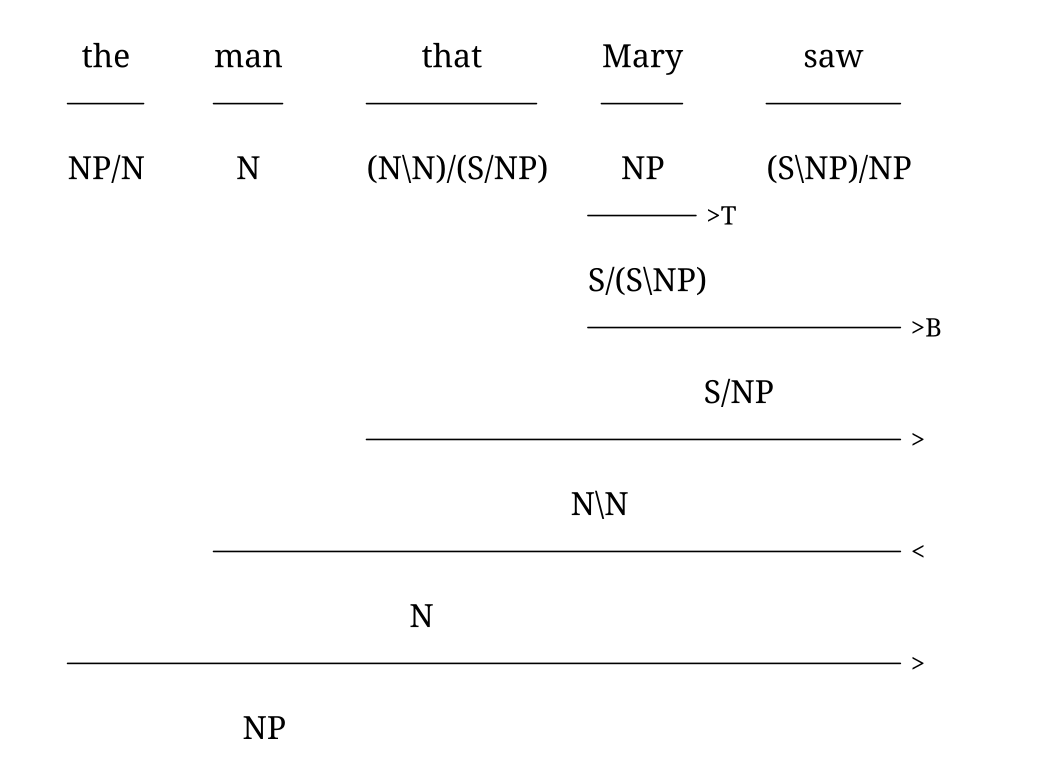
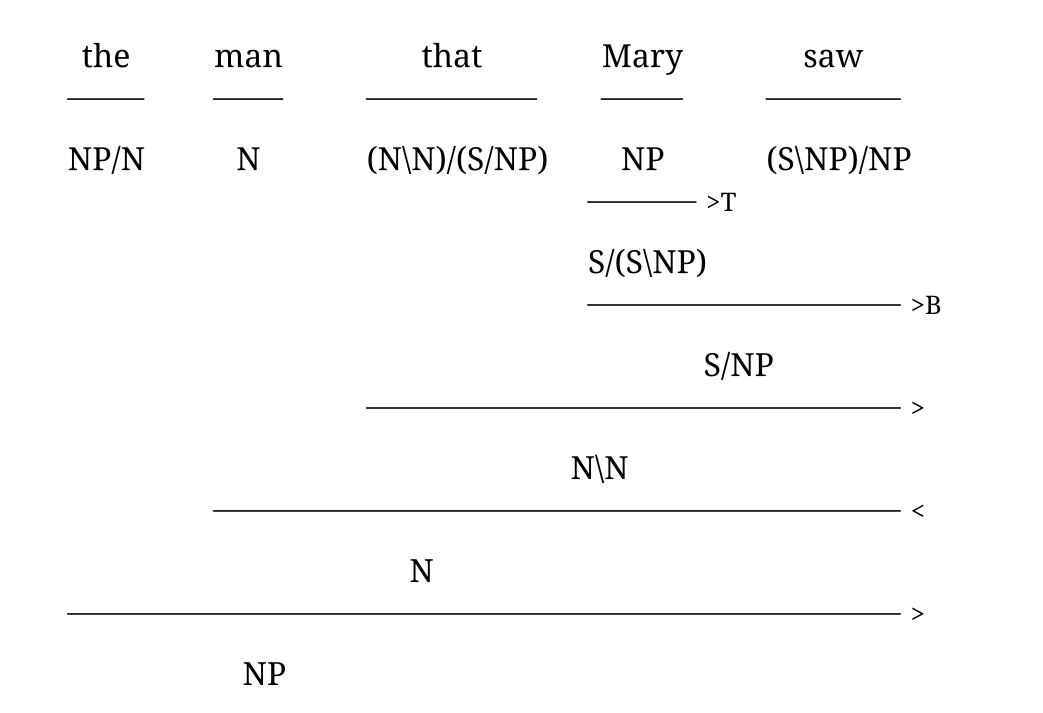
Set the derivations at a spacing the interface can offer
The three categorial figures were at a V spacing of 0.7, which is a value
the web interface does not have: its list goes 0.5, 1.0, 1.2 and up. A
reader who wanted to arrive at one of those figures from the interface could
not, and the gallery is meant to be reproducible there. They are at 0.5 now,
nine pixels tighter between rows and no worse for it.

Checked the rest of the gallery the same way, every option against the
choices the interface offers: nothing else is out of reach. The 0.7 was mine
and this week's.

diff --git a/lib/rsyntaxtree/notation_examples.md b/lib/rsyntaxtree/notation_examples.md
@@ -279,7 +279,7 @@ Source: Radford 2004
 ## 011 — CCG derivation: forward and backward application
 
 Category: Combinatory Categorial Grammar
-Settings: color=none derivation=on direction=btt fontstyle=noto-serif hspacing=2.0 leafstyle=nothing tidy=low vheight=0.7
+Settings: color=none derivation=on direction=btt fontstyle=noto-serif hspacing=2.0 leafstyle=nothing tidy=low vheight=0.5
 Source: Steedman 2000
 
 ```
@@ -295,7 +295,7 @@ Source: Steedman 2000
 ## 012 — CCG derivation: a relative clause
 
 Category: Combinatory Categorial Grammar
-Settings: color=none derivation=on direction=btt fontstyle=noto-serif hspacing=2.0 leafstyle=nothing tidy=low vheight=0.7
+Settings: color=none derivation=on direction=btt fontstyle=noto-serif hspacing=2.0 leafstyle=nothing tidy=low vheight=0.5
 Source: Steedman 2000
 
 ```
@@ -2504,7 +2504,7 @@ Settings: fontstyle=noto-serif tidy=low vheight=1.0
 ## 081 — CCG derivation: right node raising
 
 Category: Combinatory Categorial Grammar
-Settings: color=none derivation=on direction=btt fontstyle=noto-serif hspacing=2.0 leafstyle=nothing tidy=low vheight=0.7
+Settings: color=none derivation=on direction=btt fontstyle=noto-serif hspacing=2.0 leafstyle=nothing tidy=low vheight=0.5
 Source: Steedman 2000
 
 ```

diff --git a/docs/documentation_ja.md b/docs/documentation_ja.md
@@ -81,7 +81,7 @@ RSyntaxTreeではPNG形式またはSVG形式で画像を生成します．どち
 ```
 
 `コネクタ形状` を `none` にして語と範疇の間に縦線が入らないようにし，`縦間隔` は小さめに
-してください．導出は詰めて組むものです．
+してください．ギャラリーの導出図は最小の `0.5` です．導出は縦に詰めて組むものです．
 
 横方向は `Tidy レイアウト: low` に `横間隔` を広めで組みます．導出は各桁をそこに立つ最も
 広いものの幅にとった表として組むもので，`low` がまさにそれを行い，桁を寄せつつ語順を

diff --git a/docs/documentation.md b/docs/documentation.md
@@ -87,7 +87,8 @@ the top instead, each constituent's extent marked by a rule:
 ```
 
 Set `Connector shape` to `none` so that no bar is drawn between a word and its
-category, and use a small `V spacing`: a derivation is set tight.
+category, and use a small `V spacing` — the gallery's derivations are set at
+`0.5`, the smallest there is: a derivation is set tight down the page.
 
 Across the page, use `Tidy layout: low` with a wide `H spacing`. A derivation is
 set as a table, each column as wide as the widest thing standing in it, and that

diff --git a/docs/_examples/011.md b/docs/_examples/011.md
@@ -6,7 +6,7 @@ category: "Combinatory Categorial Grammar"
 polyline: "off"
 symmetrization: "off"
 connector: "nothing"
-connector_height: "0.7"
+connector_height: "0.5"
 linewidth: "1"
 hide_default_connectors: "off"
 tidy: "low"

diff --git a/docs/_examples/012.md b/docs/_examples/012.md
@@ -6,7 +6,7 @@ category: "Combinatory Categorial Grammar"
 polyline: "off"
 symmetrization: "off"
 connector: "nothing"
-connector_height: "0.7"
+connector_height: "0.5"
 linewidth: "1"
 hide_default_connectors: "off"
 tidy: "low"

diff --git a/docs/_examples/081.md b/docs/_examples/081.md
@@ -6,7 +6,7 @@ category: "Combinatory Categorial Grammar"
 polyline: "off"
 symmetrization: "off"
 connector: "nothing"
-connector_height: "0.7"
+connector_height: "0.5"
 linewidth: "1"
 hide_default_connectors: "off"
 tidy: "low"
